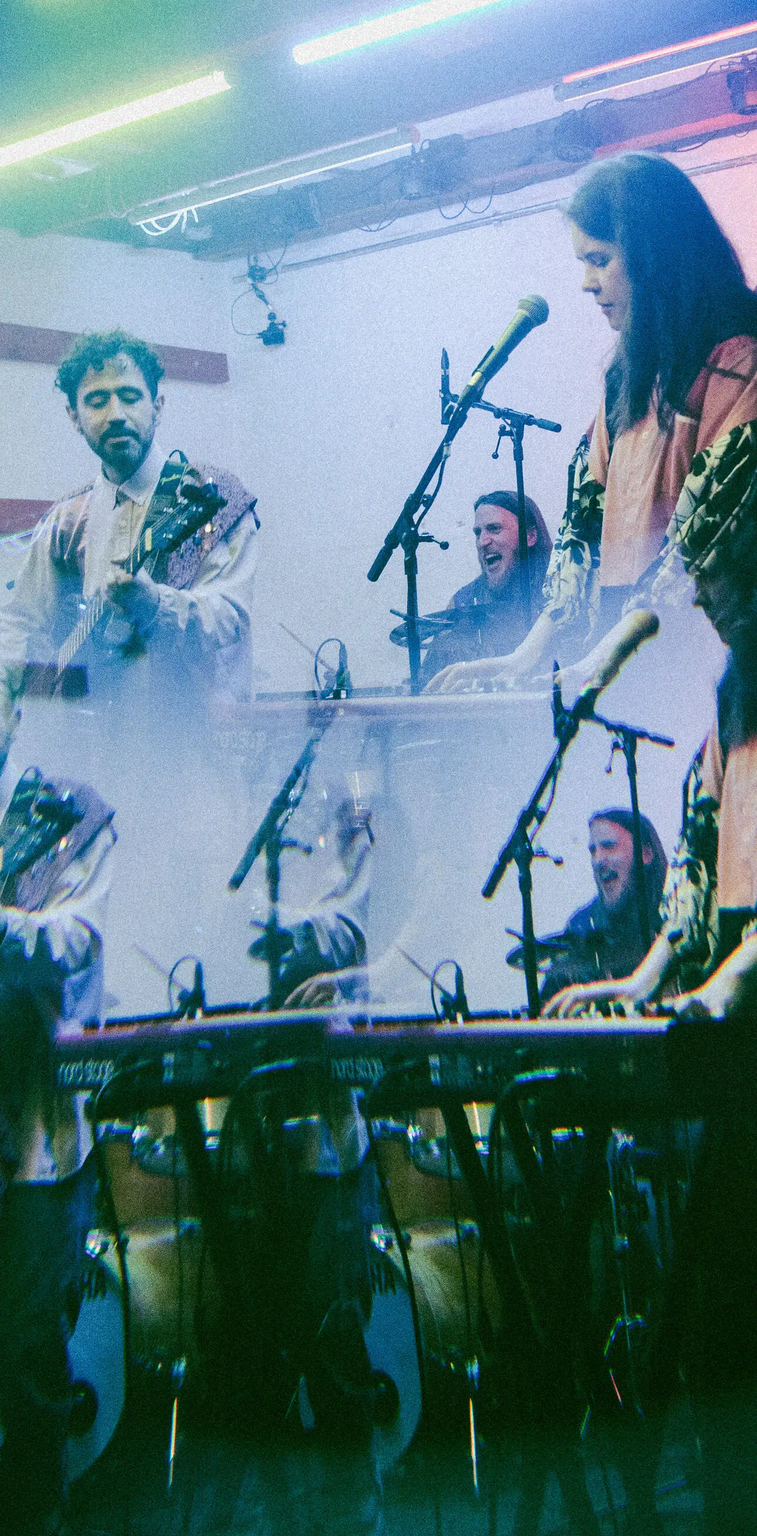
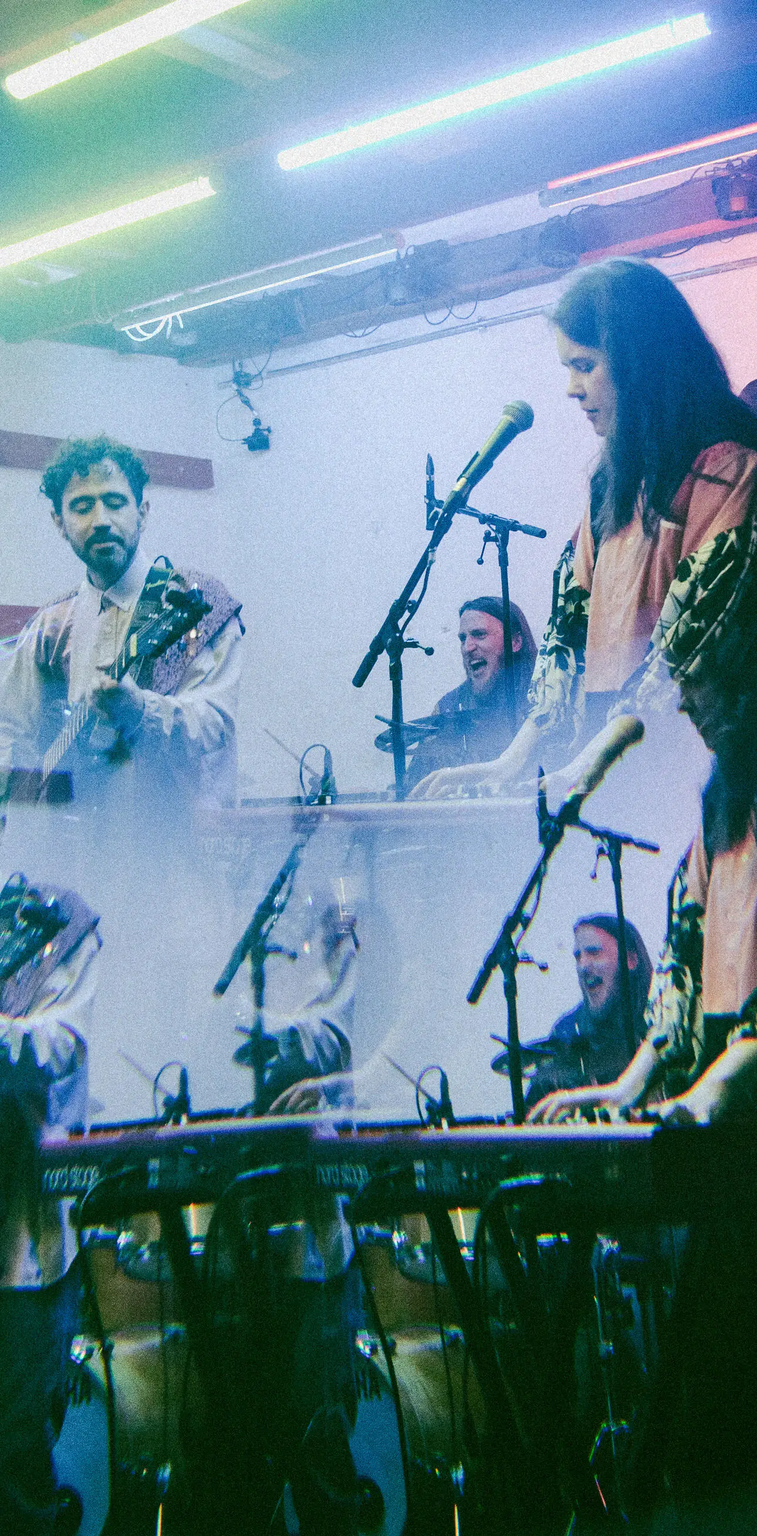
Refine the hero on phones and even out the gaps between sections.
On phones the hero uses a new crop of the live photo, reaches a little
further down, and centres the logo, name and "out now" line on the
screen. The hero photo fades out at the bottom like it fades in at the
top, with a little more room above it. The gaps between the hero, About,
Shows and Press now show the same band of letters, and the gap before
the footer matches the strip above the hero.

diff --git a/css/style.css b/css/style.css
@@ -43,10 +43,8 @@
   --about-fade: min(12svh, 16vw);
 }
 
-/* The fade steps, worked out from --about-fade. Also set on the short gap
-   so its shorter --about-fade gives shorter fades. */
-:root,
-.section-gap-short {
+/* The fade steps, worked out from --about-fade. */
+:root {
   --fade-stops:
     rgba(45, 40, 40, 0) 0,
     rgba(45, 40, 40, 0.05) calc(var(--about-fade) * 0.15),
@@ -732,6 +730,18 @@ button:focus-visible .button-media {
   flex: none;
 }
 
+/* Portrait screens: the logo, name and "out now" line sit in the middle of
+   the screen rather than of the (shorter) hero, by padding its top with the
+   room it leaves at the bottom. The padding is part of the hero's height
+   (border-box), so the hint of About below stays where it is. */
+@media (orientation: portrait) {
+  .home #logo {
+    box-sizing: border-box;
+    padding-top: calc(15vh + var(--about-fade) / 2);
+    padding-top: calc(15svh + var(--about-fade) / 2);
+  }
+}
+
 /* The Konservatoorium live photo behind the hero, darkened in the
    page's colour like the share image. It fades out at the bottom (a mask),
    so the wordmark pattern shows through in the gap below. */
@@ -748,15 +758,15 @@ button:focus-visible .button-media {
      it, before scrolling), so the photo sits between letters above and
      below and the button stands on the pattern. The photo starts half its
      fade earlier, so the middle of the fade (where it reads as the edge)
-     is the same distance below the button as the space above it. */
-  inset: calc(2rem * 2 + 44px - var(--about-fade) / 2) 0 0;
+     is the same distance below the button as the space above it,
+     plus a little extra room (1rem). */
+  inset: calc(2rem * 2 + 44px + 1rem - var(--about-fade) / 2) 0 0;
   z-index: -1;
   background:
     linear-gradient(rgba(45, 40, 40, 0.55), rgba(45, 40, 40, 0.55)),
     image-set(url("../assets/photos/web/konservatoorium-1920.webp") type("image/webp"), url("../assets/photos/web/konservatoorium-1920.jpg") type("image/jpeg")) center / cover;
-  /* The photo fades in at the top over the same short distance as the
-     other fades (--about-fade), eased like them, and out at the bottom
-     twice as fast. */
+  /* The photo fades in at the top and out at the bottom over the same
+     short distance as the other fades (--about-fade), eased like them. */
   mask-image: linear-gradient(to bottom,
     transparent 0,
     rgba(0, 0, 0, 0.05) calc(var(--about-fade) * 0.15),
@@ -765,12 +775,12 @@ button:focus-visible .button-media {
     rgba(0, 0, 0, 0.82) calc(var(--about-fade) * 0.7),
     rgba(0, 0, 0, 0.95) calc(var(--about-fade) * 0.85),
     #000 var(--about-fade),
-    #000 calc(100% - var(--about-fade) / 2),
-    rgba(0, 0, 0, 0.95) calc(100% - var(--about-fade) * 0.425),
-    rgba(0, 0, 0, 0.82) calc(100% - var(--about-fade) * 0.35),
-    rgba(0, 0, 0, 0.5) calc(100% - var(--about-fade) * 0.25),
-    rgba(0, 0, 0, 0.18) calc(100% - var(--about-fade) * 0.15),
-    rgba(0, 0, 0, 0.05) calc(100% - var(--about-fade) * 0.075),
+    #000 calc(100% - var(--about-fade)),
+    rgba(0, 0, 0, 0.95) calc(100% - var(--about-fade) * 0.85),
+    rgba(0, 0, 0, 0.82) calc(100% - var(--about-fade) * 0.7),
+    rgba(0, 0, 0, 0.5) calc(100% - var(--about-fade) * 0.5),
+    rgba(0, 0, 0, 0.18) calc(100% - var(--about-fade) * 0.3),
+    rgba(0, 0, 0, 0.05) calc(100% - var(--about-fade) * 0.15),
     transparent 100%);
 }
 
@@ -780,7 +790,15 @@ button:focus-visible .button-media {
    logo's own dark glow keeps it clear in the middle. */
 @media (max-width: 900px) {
   .home #logo::before {
-    top: calc(1.25rem * 2 + 44px - var(--about-fade) / 2);
+    top: calc(1.25rem * 2 + 44px + 1rem - var(--about-fade) / 2);
+  }
+}
+
+/* Portrait screens: the photo reaches a little further down, into the top
+   half of the gap below the hero, so it frames the "out now" line. */
+@media (orientation: portrait) {
+  .home #logo::before {
+    bottom: -7svh;
   }
 }
 
@@ -1265,9 +1283,13 @@ button:focus-visible .button-media {
 /* Open stretch between About and Shows: no background of its own, so the
    wordmark pattern shows through, with the sections on either side fading
    into it (About's solid background above, Shows' below). */
+/* Every gap shows the same stretch of plain letters (15svh) between two
+   fades. Next to the Shows, Press and footer sections, which have solid
+   backgrounds, the gap holds those fades itself, so it is taller by two
+   fades. */
 .section-gap {
   width: 100%;
-  height: 30svh;
+  height: calc(15svh + var(--about-fade) * 2);
   flex: none;
   background:
     linear-gradient(to top, var(--fade-stops)) top / 100% var(--about-fade) no-repeat,
@@ -1275,17 +1297,39 @@ button:focus-visible .button-media {
 }
 
 /* The gap under the hero: no fades of its own, since the hero's photo
-   fades out and the About section fades in by themselves. Half the
-   height of the other gaps. */
+   fades out and the About section fades in by themselves, so only the
+   stretch of plain letters. */
 .section-gap-after-hero {
   height: 15svh;
   background: none;
 }
 
-/* A half-size gap (before the footer), with fades to match. */
-.section-gap-short {
-  --about-fade: min(6svh, 8vw);
-  height: 15svh;
+/* Portrait screens: the hero's photo reaches 7svh into the gap under it,
+   so the other gaps lose 7svh too, to look the same. */
+@media (orientation: portrait) {
+  .section-gap {
+    height: calc(8svh + var(--about-fade) * 2);
+  }
+
+  .section-gap-after-hero {
+    height: 15svh;
+  }
+}
+
+/* The gap before the footer looks like the strip of letters above the
+   hero: a fade on one side (here from the Press section above), a hard
+   edge on the other (the footer's line), and the same room between them:
+   the navbar's padding twice, the menu button and 1rem, measured to the
+   middle of the fade, where it reads as the edge. */
+.section-gap-footer {
+  height: calc(2rem * 2 + 44px + 1rem + var(--about-fade) / 2);
+  background: linear-gradient(to top, var(--fade-stops)) top / 100% var(--about-fade) no-repeat;
+}
+
+@media (max-width: 900px) {
+  .section-gap-footer {
+    height: calc(1.25rem * 2 + 44px + 1rem + var(--about-fade) / 2);
+  }
 }
 
 /* Shows and Press: lists with one row per show or quote, in the same type

diff --git a/index.html b/index.html
@@ -280,7 +280,7 @@
       </li>
     </template>
   </section>
-  <div class="section-gap section-gap-short" aria-hidden="true"></div>
+  <div class="section-gap section-gap-footer" aria-hidden="true"></div>
   <!-- Footer: the band's links (the same ones as in the menu), the booking
        and press address, and the site version with the copyright. -->
   <footer id="footer">
